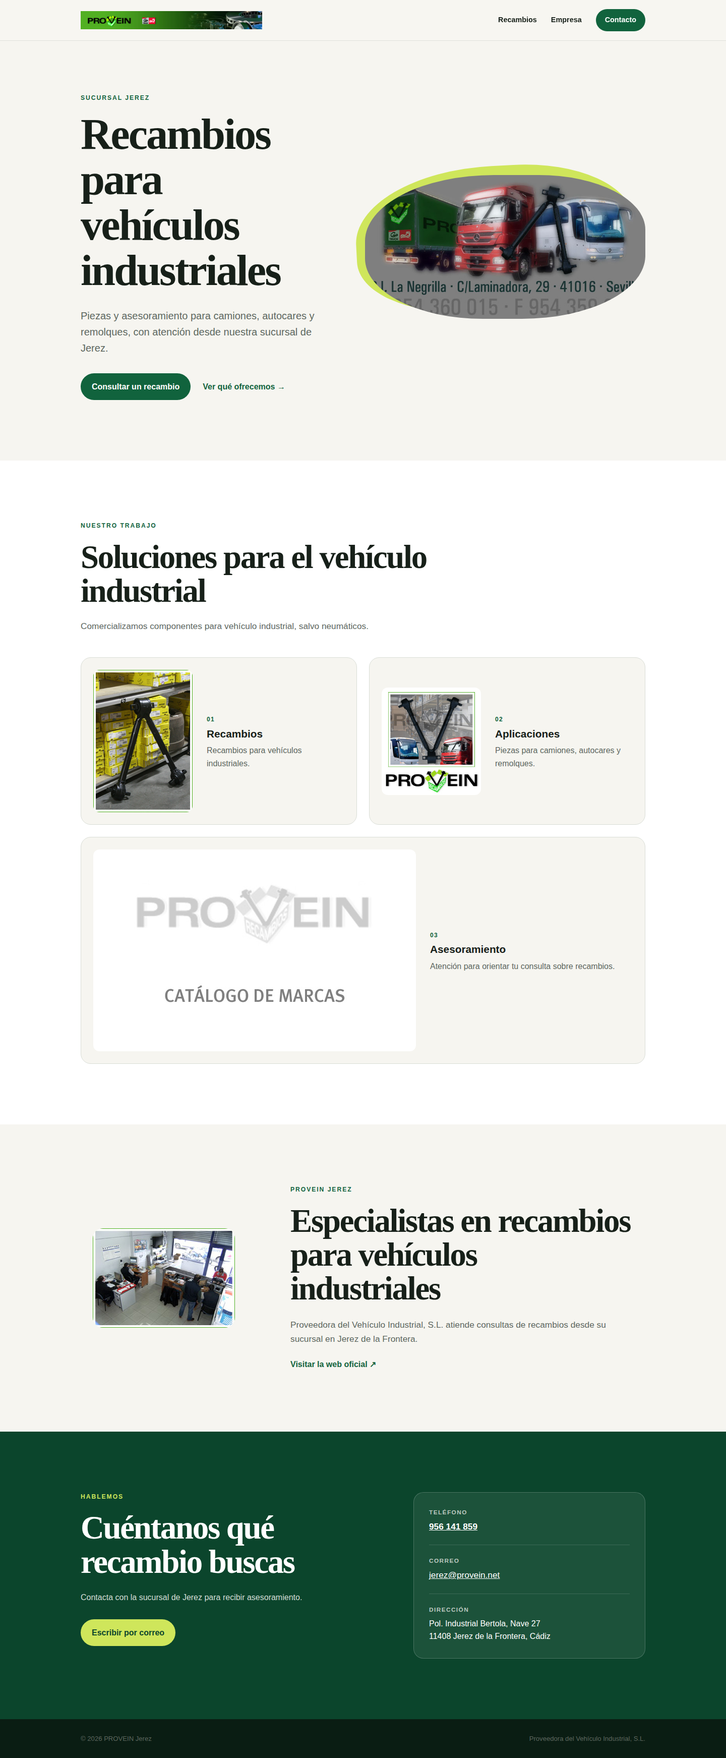
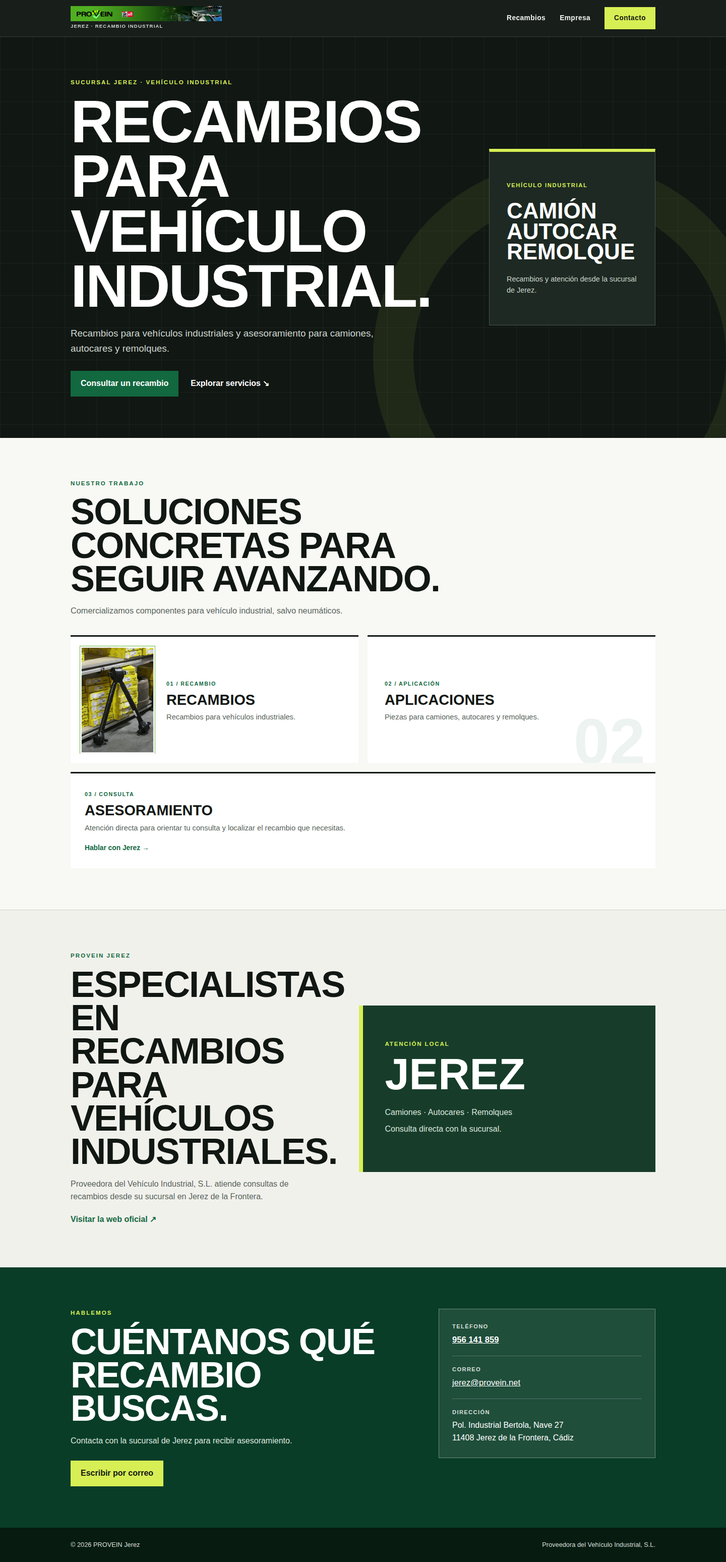
fix: cerrar diseño editorial sin activos débiles

diff --git a/styles.css b/styles.css
@@ -1,111 +1,166 @@
 :root {
-  --ink: #172019;
-  --muted: #5d675f;
-  --paper: #f6f5f0;
+  --ink: #111713;
+  --steel: #1b231e;
+  --muted: #59645d;
+  --paper: #f1f1ec;
   --white: #fff;
-  --green: #11633d;
-  --green-dark: #0b452c;
-  --lime: #cfe65b;
-  --line: #d9ddd6;
-  --shell: 1120px;
-  --radius: 20px;
+  --green: #12683f;
+  --green-dark: #093d28;
+  --signal: #d7ef54;
+  --line: #ccd2cb;
+  --shell: 1160px;
 }
 
 * { box-sizing: border-box; }
-html { scroll-behavior: smooth; }
-body { margin: 0; color: var(--ink); background: var(--paper); font-family: Manrope, sans-serif; line-height: 1.6; }
+html { overflow-x: clip; scroll-behavior: smooth; }
+body { margin: 0; overflow-x: clip; color: var(--ink); background: var(--paper); font-family: Manrope, Arial, sans-serif; line-height: 1.55; }
 a { color: inherit; }
 img { display: block; max-width: 100%; height: auto; }
 button, a { -webkit-tap-highlight-color: transparent; }
 .shell { width: min(calc(100% - 40px), var(--shell)); margin-inline: auto; }
-.section { padding: clamp(72px, 9vw, 120px) 0; }
-.skip-link { position: fixed; z-index: 99; top: 8px; left: 8px; padding: 10px 16px; background: var(--ink); color: white; transform: translateY(-150%); }
+.section { padding: clamp(54px, 6vw, 82px) 0; }
+.skip-link { position: fixed; z-index: 99; top: 8px; left: 8px; padding: 10px 16px; background: var(--signal); color: var(--ink); font-weight: 800; transform: translateY(-150%); }
 .skip-link:focus { transform: none; }
 
-.site-header { position: sticky; z-index: 20; top: 0; border-bottom: 1px solid rgba(23,32,25,.1); background: rgba(246,245,240,.94); backdrop-filter: blur(12px); }
-.header-inner { min-height: 80px; display: flex; align-items: center; justify-content: space-between; gap: 28px; }
-.brand { width: min(360px, 42vw); overflow: hidden; }
-.brand img { width: 100%; max-width: 1020px; }
-.main-nav { display: flex; align-items: center; gap: 28px; font-weight: 700; font-size: .9rem; }
+.site-header { position: sticky; z-index: 20; top: 0; border-bottom: 1px solid #323a35; background: rgba(17,23,19,.97); backdrop-filter: blur(12px); }
+.header-inner { min-height: 72px; display: flex; align-items: center; justify-content: space-between; gap: 28px; }
+.brand { width: min(340px, 42vw); overflow: visible; display:flex; flex-direction:column; align-items:flex-start; gap:3px; background: transparent; text-decoration:none; }
+.brand img { width: min(300px,100%); max-width: 510px; background:#fff; }
+.brand span{color:#cfd8d1;font-size:.6rem;font-weight:800;letter-spacing:.12em;text-transform:uppercase}
+.main-nav { display: flex; align-items: center; gap: 28px; color: #edf2ee; font-weight: 700; font-size: .86rem; letter-spacing: .03em; }
 .main-nav a { text-decoration: none; }
-.main-nav a:not(.nav-cta):hover { color: var(--green); }
-.nav-cta { padding: 10px 18px; border-radius: 999px; color: white; background: var(--green); }
-.menu-toggle { display: none; border: 1px solid var(--line); border-radius: 999px; padding: 9px 16px; color: var(--ink); background: transparent; font: 700 .9rem Manrope, sans-serif; }
+.main-nav a:not(.nav-cta):hover { color: var(--signal); }
+.nav-cta { padding: 10px 18px; border: 1px solid var(--signal); color: var(--ink); background: var(--signal); }
+.menu-toggle { display: none; border: 1px solid #79827c; padding: 9px 16px; color: white; background: transparent; font: 700 .9rem Manrope, sans-serif; }
 
-.hero { padding-top: clamp(64px, 8vw, 104px); overflow: hidden; }
-.hero-grid { display: grid; grid-template-columns: .92fr 1.08fr; align-items: center; gap: clamp(44px, 7vw, 90px); }
-.eyebrow { margin: 0 0 18px; color: var(--green); font-size: .76rem; font-weight: 800; letter-spacing: .16em; text-transform: uppercase; }
-h1, h2 { margin: 0; font-family: 'Source Serif 4', Georgia, serif; line-height: 1.04; letter-spacing: -.035em; }
-h1 { max-width: 700px; font-size: clamp(3rem, 6vw, 5.8rem); }
-h2 { font-size: clamp(2.3rem, 4.5vw, 4.3rem); }
-h3 { margin: 4px 0 8px; font-size: 1.3rem; line-height: 1.25; }
+.hero { position: relative; min-height: 610px; display: grid; align-items: center; overflow: hidden; color: #fff; background-color: var(--ink); background-image: linear-gradient(rgba(255,255,255,.045) 1px, transparent 1px), linear-gradient(90deg, rgba(255,255,255,.045) 1px, transparent 1px); background-size: 64px 64px; }
+.hero::after { content: ''; position: absolute; right: -80px; bottom: -230px; width: 620px; height: 620px; border: 80px solid rgba(215,239,84,.08); border-radius: 50%; pointer-events: none; }
+.hero-grid { position: relative; z-index: 1; display: grid; grid-template-columns: minmax(0, 1fr) 300px; align-items: end; gap: clamp(50px, 9vw, 130px); }
+.hero-copy, .hero-aside { min-width: 0; }
+.eyebrow { margin: 0 0 14px; color: var(--green); font-size: .72rem; font-weight: 800; letter-spacing: .18em; text-transform: uppercase; }
+.hero .eyebrow { color: var(--signal); }
+h1, h2 { margin: 0; font-family: 'Barlow Condensed', Impact, sans-serif; font-weight: 700; line-height: .92; letter-spacing: -.025em; text-transform: uppercase; }
+h1 { max-width: 830px; font-size: clamp(4.4rem, 8.2vw, 7.6rem); }
+h2 { font-size: clamp(2.7rem, 5vw, 4.8rem); }
+h3 { margin: 5px 0 8px; font-family: 'Barlow Condensed', Impact, sans-serif; font-size: 1.8rem; line-height: 1.05; text-transform: uppercase; }
 p { margin-top: 0; }
-.lead { max-width: 580px; margin: 28px 0 34px; color: var(--muted); font-size: clamp(1.05rem, 2vw, 1.25rem); }
+.lead { max-width: 640px; margin: 25px 0 30px; color: #ccd4ce; font-size: clamp(1rem, 1.8vw, 1.18rem); }
 .actions { display: flex; align-items: center; gap: 24px; flex-wrap: wrap; }
-.button { display: inline-block; border-radius: 999px; padding: 14px 22px; color: white; background: var(--green); font-weight: 800; text-decoration: none; }
+.button { display: inline-block; padding: 13px 20px; color: #fff; background: var(--green); font-weight: 800; text-decoration: none; }
 .button:hover { background: var(--green-dark); }
 .text-link { color: var(--green); font-weight: 800; text-decoration: none; }
+.hero .text-link { color: #fff; }
 .text-link:hover { text-decoration: underline; text-underline-offset: 4px; }
-.hero-media { position: relative; width: 100%; max-width: 720px; margin: 0; }
-.hero-media::before { content: ''; position: absolute; inset: -18px 22px 18px -18px; z-index: -1; border-radius: 50% 42% 48% 38%; background: var(--lime); transform: rotate(-3deg); }
-.hero-media img { width: 100%; max-width: 720px; border-radius: 46% 38% 44% 42%; aspect-ratio: 720 / 369; object-fit: cover; }
+.hero-aside { min-height: 300px; display: flex; flex-direction: column; justify-content: space-between; padding: 24px; border-top: 5px solid var(--signal); background: rgba(255,255,255,.07); }
+.industrial-mark { color: var(--signal); font: 800 4.5rem/1 'Barlow Condensed', Impact, sans-serif; letter-spacing: -.08em; }
+.hero-aside p { margin: 30px 0; color: #dde4df; font-size: .9rem; }
+.hero-aside strong { color: #fff; font: 700 1.65rem/1 'Barlow Condensed', Impact, sans-serif; text-transform: uppercase; }
+.hero-index { color: #aeb8b1; font-size: .68rem; font-weight: 800; letter-spacing: .15em; }
 
-.services { background: var(--white); }
-.section-heading { max-width: 760px; margin-bottom: 48px; }
-.section-heading > p:last-child { margin: 22px 0 0; color: var(--muted); font-size: 1.08rem; }
-.service-grid { display: grid; grid-template-columns: repeat(2, 1fr); gap: 24px; }
-.service-card { min-width: 0; display: grid; grid-template-columns: minmax(120px, 197px) 1fr; align-items: center; gap: 28px; padding: 24px; border: 1px solid var(--line); border-radius: var(--radius); background: var(--paper); }
-.service-card img { width: auto; max-width: 100%; max-height: 282px; border-radius: 12px; object-fit: contain; }
-.service-card p { margin: 0; color: var(--muted); }
-.service-card-wide { grid-column: 1 / -1; grid-template-columns: minmax(240px, 640px) 1fr; }
-.service-card-wide img { max-width: 640px; max-height: 400px; }
-.card-number { color: var(--green); font-size: .75rem; font-weight: 800; letter-spacing: .12em; }
+.services { background: #f8f8f4; }
+.section-heading { max-width: 810px; margin-bottom: 36px; }
+.section-heading > p:last-child { margin: 18px 0 0; color: var(--muted); font-size: 1.02rem; }
+.service-grid { display: grid; grid-template-columns: repeat(2, 1fr); gap: 18px; }
+.service-card { min-width: 0; display: grid; grid-template-columns: 150px 1fr; align-items: center; gap: 22px; padding: 18px; border-top: 3px solid var(--ink); background: var(--white); }
+.card-copy { min-width: 0; }
+.asset-frame { display: grid; place-items: center; overflow: hidden; background: #e7e8e2; }
+.asset-frame-portrait { width: 150px; height: 214px; }
+.asset-frame img { width: auto; height: auto; max-width: 100%; max-height: 100%; object-fit: contain; }
+.service-card p { margin: 0; color: var(--muted); font-size: .92rem; }
+.service-card-advice { grid-column: 1 / -1; grid-template-columns: minmax(280px, 480px) 1fr; }
+.asset-frame-catalogue { width: min(100%, 480px); min-height: 260px; }
+.asset-frame-catalogue img { max-width: 640px; }
+.service-card-advice .text-link { display: inline-block; margin-top: 18px; font-size: .86rem; }
+.card-number { color: var(--green); font-size: .67rem; font-weight: 800; letter-spacing: .14em; }
 
-.company-grid { display: grid; grid-template-columns: 282px minmax(0, 680px); align-items: center; justify-content: center; gap: clamp(40px, 8vw, 110px); }
-.company-grid > img { width: 282px; max-width: 282px; border-radius: var(--radius); }
-.company-grid p:not(.eyebrow) { margin: 24px 0; color: var(--muted); font-size: 1.08rem; }
+.company { border-top: 1px solid var(--line); }
+.company-grid { display: grid; grid-template-columns: minmax(0, .9fr) minmax(440px, 1.1fr); align-items: center; gap: clamp(40px, 7vw, 90px); }
+.company-copy, .visual-register { min-width: 0; }
+.company-copy p:not(.eyebrow) { max-width: 590px; margin: 20px 0; color: var(--muted); font-size: 1rem; }
+.visual-register { display: grid; grid-template-columns: 1fr 160px; align-items: end; gap: 14px; }
+.visual-register figure { min-width: 0; margin: 0; }
+.visual-register img { width: auto; max-width: 100%; max-height: 246px; object-fit: contain; object-position: left bottom; }
+.register-wide img { width: min(100%, 480px); max-width: 720px; }
+.visual-register figure:not(.register-wide) img { width: min(100%, 282px); max-width: 282px; }
+.visual-register figcaption { padding-top: 8px; border-top: 1px solid #aeb5af; color: var(--muted); font-size: .62rem; font-weight: 800; letter-spacing: .09em; text-transform: uppercase; }
 
-.contact { color: white; background: var(--green-dark); }
-.contact .eyebrow { color: var(--lime); }
-.contact-grid { display: grid; grid-template-columns: 1fr minmax(320px, 460px); align-items: start; gap: clamp(48px, 9vw, 120px); }
+.contact { color: #fff; background: var(--green-dark); }
+.contact .eyebrow { color: var(--signal); }
+.contact-grid { display: grid; grid-template-columns: 1fr minmax(320px, 430px); align-items: start; gap: clamp(44px, 8vw, 100px); }
 .contact h2 { max-width: 650px; }
-.contact h2 + p { margin: 24px 0 30px; color: #d4ded7; }
-.button-light { color: var(--green-dark); background: var(--lime); }
-.button-light:hover { color: white; background: var(--green); }
-.contact-card { padding: 30px; border: 1px solid rgba(255,255,255,.2); border-radius: var(--radius); background: rgba(255,255,255,.07); font-style: normal; }
-.contact-card div + div { margin-top: 22px; padding-top: 22px; border-top: 1px solid rgba(255,255,255,.14); }
-.contact-card span { display: block; margin-bottom: 5px; color: #bdc9c0; font-size: .74rem; font-weight: 800; letter-spacing: .12em; text-transform: uppercase; }
-.contact-card strong, .contact-card a { font-size: 1.08rem; }
-.contact-card p { margin: 0; }
-.site-footer { padding: 28px 0; color: var(--muted); background: #0a1d13; }
+.contact h2 + p { margin: 20px 0 26px; color: #dce7df; }
+.button-light { color: #111713; background: var(--signal); }
+.button-light:hover { color: #fff; background: #12683f; }
+.contact-card { padding: 26px; border: 1px solid rgba(255,255,255,.35); background: rgba(255,255,255,.09); font-style: normal; }
+.contact-card div + div { margin-top: 18px; padding-top: 18px; border-top: 1px solid rgba(255,255,255,.22); }
+.contact-card span { display: block; margin-bottom: 5px; color: #d4dfd7; font-size: .7rem; font-weight: 800; letter-spacing: .12em; text-transform: uppercase; }
+.contact-card strong, .contact-card a { color: #fff; font-size: 1.04rem; }
+.contact-card p { margin: 0; color: #fff; }
+.site-footer { padding: 24px 0; color: #d6dfd8; background: #071b11; }
 .footer-inner { display: flex; justify-content: space-between; gap: 20px; }
-.footer-inner p { margin: 0; font-size: .82rem; }
+.footer-inner p { margin: 0; font-size: .8rem; }
 
 @media (max-width: 820px) {
   .menu-toggle { display: block; }
-  .main-nav { position: absolute; top: calc(100% + 1px); right: 20px; left: 20px; display: none; flex-direction: column; align-items: stretch; gap: 0; padding: 12px; border: 1px solid var(--line); border-radius: 16px; background: var(--white); box-shadow: 0 18px 40px rgba(23,32,25,.12); }
+  .main-nav { position: absolute; top: calc(100% + 1px); right: 20px; left: 20px; display: none; flex-direction: column; align-items: stretch; gap: 0; padding: 12px; border: 1px solid #3e4841; background: var(--ink); box-shadow: 0 18px 40px rgba(0,0,0,.3); }
   .main-nav.is-open { display: flex; }
   .main-nav a { padding: 12px; }
   .nav-cta { margin-top: 5px; text-align: center; }
   .brand { width: min(320px, 65vw); }
-  .hero-grid, .contact-grid { grid-template-columns: 1fr; }
-  .hero-media { margin-inline: auto; }
+  .hero { min-height: auto; }
+  .hero-grid { grid-template-columns: 1fr; align-items: start; gap: 38px; }
+  .hero-aside { min-height: 0; display: grid; grid-template-columns: auto 1fr auto; align-items: center; gap: 24px; }
+  .hero-aside p { margin: 0; }
+  .industrial-mark { font-size: 3.4rem; }
   .service-grid { grid-template-columns: 1fr; }
-  .service-card-wide { grid-column: auto; grid-template-columns: minmax(120px, 197px) 1fr; }
-  .service-card-wide img { max-width: 197px; max-height: 282px; }
+  .service-card-advice { grid-column: auto; grid-template-columns: 220px 1fr; }
+  .asset-frame-catalogue { min-height: 0; }
+  .company-grid, .contact-grid { grid-template-columns: 1fr; }
+  .visual-register { max-width: 640px; }
 }
 
 @media (max-width: 580px) {
   .shell { width: min(calc(100% - 28px), var(--shell)); }
-  .header-inner { min-height: 68px; }
-  .section { padding: 68px 0; }
-  .hero { padding-top: 52px; }
-  .service-card, .service-card-wide { grid-template-columns: 1fr; }
-  .service-card img, .service-card-wide img { width: auto; max-width: 100%; margin-inline: auto; }
-  .company-grid { grid-template-columns: 1fr; }
-  .company-grid > img { margin-inline: auto; }
-  .contact-card { padding: 22px; }
-  .footer-inner { flex-direction: column; }
+  .header-inner { min-height: 64px; }
+  .section { padding: 48px 0; }
+  .hero { padding-top: 50px; }
+  h1 { overflow-wrap: anywhere; font-size: clamp(3.5rem, 17vw, 5.2rem); }
+  h2 { overflow-wrap: anywhere; font-size: clamp(2.45rem, 11vw, 3.2rem); }
+  h3 { font-size: 1.4rem; }
+  .hero-aside { grid-template-columns: auto 1fr; padding: 18px; }
+  .hero-index { display: none; }
+  .service-card, .service-card-advice { grid-template-columns: 116px 1fr; gap: 16px; padding: 14px; }
+  .asset-frame-portrait { width: 116px; height: 166px; }
+  .asset-frame-catalogue { width: 116px; min-height: 0; }
+  .service-card-advice .asset-frame img { width: 116px; }
+  .visual-register { grid-template-columns: minmax(0, 1fr) 96px; gap: 10px; }
+  .contact-card { padding: 20px; }
+  .footer-inner { flex-direction: column; gap: 5px; }
 }
 
 @media (prefers-reduced-motion: reduce) { html { scroll-behavior: auto; } }
+
+/* Ajuste comercial final: activos siempre contenidos a escala nativa */
+.hero-grid{grid-template-columns:minmax(0,1fr) 330px;align-items:center}
+.hero-aside{min-height:350px;justify-content:center;gap:22px;padding:34px;border:1px solid rgba(255,255,255,.2);border-top:6px solid var(--signal);background:#1d2922}
+.hero-aside .aside-label{color:var(--signal);font-size:.7rem;font-weight:800;letter-spacing:.15em;text-transform:uppercase}
+.hero-aside>strong{color:#fff;font:700 2.75rem/.92 'Barlow Condensed',Impact,sans-serif;text-transform:uppercase;overflow-wrap:anywhere}
+.hero-aside>p{margin:0;color:#cbd4cd;font-size:.9rem}
+.service-card-advice{grid-template-columns:240px 1fr;min-height:0}
+.asset-frame-catalogue{width:240px;min-height:150px;height:150px}
+.asset-frame-catalogue img{width:240px;max-width:240px;height:150px;max-height:150px;object-fit:contain}
+.visual-register{grid-template-columns:360px 180px;justify-content:end}
+.register-wide img{width:360px;max-width:360px}
+.visual-register figure:not(.register-wide) img{width:180px;max-width:180px}
+.service-card-advice{grid-template-columns:1fr;padding:28px}
+.service-card-text{grid-template-columns:1fr;position:relative;overflow:hidden;padding:34px}
+.service-card-text::after{content:"02";position:absolute;right:20px;bottom:-22px;color:#12683f14;font:800 8rem/1 'Barlow Condensed',Impact,sans-serif}
+.service-card-text .card-copy{position:relative;z-index:1;max-width:320px}
+.catalog-note{grid-column:1/-1;width:180px}
+.catalog-note img{width:180px!important;max-width:180px!important;height:112px;object-fit:contain}
+.company-panel{min-height:330px;display:flex;flex-direction:column;justify-content:center;padding:44px;background:#173d2a;color:#fff;border-left:8px solid var(--signal)}
+.company-panel span{color:var(--signal);font-size:.72rem;font-weight:800;letter-spacing:.16em;text-transform:uppercase}
+.company-panel strong{margin:14px 0 22px;font:700 5.4rem/.85 'Barlow Condensed',Impact,sans-serif;text-transform:uppercase}
+.company-panel p{margin:4px 0;color:#dbe5de}
+@media(max-width:820px){.hero-grid{grid-template-columns:1fr}.hero-aside{min-height:0;display:grid;grid-template-columns:1fr 1fr;align-items:end}.hero-aside>p{grid-column:1/-1}.visual-register{justify-content:start}}
+@media(max-width:580px){.brand{width:210px}.brand img{width:210px;max-width:210px;object-fit:contain}.company h2{font-size:2.15rem;overflow-wrap:normal}h1{overflow-wrap:normal;font-size:3.1rem;line-height:.95}.hero-aside{grid-template-columns:1fr;padding:24px}.hero-aside>strong{font-size:2.55rem}.hero-aside>p{grid-column:auto}.service-card{grid-template-columns:96px 1fr}.asset-frame-portrait{width:88px;height:126px}.service-card-advice{grid-template-columns:1fr}.visual-register{grid-template-columns:180px 80px}.register-wide img{width:180px;max-width:180px}.visual-register figure:not(.register-wide) img{width:80px;max-width:80px}.catalog-note{grid-column:1/-1;width:160px}.catalog-note img{width:160px!important;max-width:160px!important;height:100px}}

diff --git a/index.html b/index.html
@@ -14,7 +14,8 @@
   <header class="site-header">
     <div class="shell header-inner">
       <a class="brand" href="#inicio" aria-label="PROVEIN Jerez, inicio">
-        <img src="public/assets/logo-header.jpg" width="1020" height="102" alt="PROVEIN, Proveedora del Vehículo Industrial">
+        <img src="public/assets/logo-header.jpg" width="510" height="51" alt="PROVEIN, Proveedora del Vehículo Industrial">
+        <span>Jerez · Recambio industrial</span>
       </a>
       <button class="menu-toggle" type="button" aria-expanded="false" aria-controls="nav">Menú</button>
       <nav id="nav" class="main-nav" aria-label="Navegación principal" data-open="false">
@@ -29,17 +30,19 @@
     <section id="inicio" class="hero section">
       <div class="shell hero-grid">
         <div class="hero-copy">
-          <p class="eyebrow">Sucursal Jerez</p>
-          <h1>Recambios para vehículos industriales</h1>
-          <p class="lead">Piezas y asesoramiento para camiones, autocares y remolques, con atención desde nuestra sucursal de Jerez.</p>
+          <p class="eyebrow">Sucursal Jerez · Vehículo industrial</p>
+          <h1>Recambios para vehículo industrial.</h1>
+          <p class="lead">Recambios para vehículos industriales y asesoramiento para camiones, autocares y remolques.</p>
           <div class="actions">
             <a class="button" href="#contacto">Consultar un recambio</a>
-            <a class="text-link" href="#servicios">Ver qué ofrecemos <span aria-hidden="true">→</span></a>
+            <a class="text-link" href="#servicios">Explorar servicios <span aria-hidden="true">↘</span></a>
           </div>
         </div>
-        <figure class="hero-media">
-          <img src="public/assets/hero-camion.jpg" width="720" height="369" alt="Camión circulando por carretera">
-        </figure>
+        <aside class="hero-aside" aria-label="Especialidad de PROVEIN">
+          <span class="aside-label">Vehículo industrial</span>
+          <strong>Camión<br>Autocar<br>Remolque</strong>
+          <p>Recambios y atención desde la sucursal de Jerez.</p>
+        </aside>
       </div>
     </section>
 
@@ -47,21 +50,21 @@
       <div class="shell">
         <div class="section-heading">
           <p class="eyebrow">Nuestro trabajo</p>
-          <h2 id="servicios-title">Soluciones para el vehículo industrial</h2>
+          <h2 id="servicios-title">Soluciones concretas para seguir avanzando.</h2>
           <p>Comercializamos componentes para vehículo industrial, salvo neumáticos.</p>
         </div>
         <div class="service-grid">
           <article class="service-card">
-            <img src="public/assets/apoyo-recambios.jpg" width="197" height="282" alt="Detalle de componentes para vehículos industriales" loading="lazy">
-            <div><span class="card-number">01</span><h3>Recambios</h3><p>Recambios para vehículos industriales.</p></div>
+            <div class="asset-frame asset-frame-portrait">
+              <img src="public/assets/apoyo-recambios.jpg" width="197" height="282" alt="Detalle de componentes para vehículos industriales" loading="lazy">
+            </div>
+            <div class="card-copy"><span class="card-number">01 / RECAMBIO</span><h3>Recambios</h3><p>Recambios para vehículos industriales.</p></div>
           </article>
-          <article class="service-card">
-            <img src="public/assets/apoyo-servicio.jpg" width="261" height="283" alt="Profesional atendiendo una consulta de recambios" loading="lazy">
-            <div><span class="card-number">02</span><h3>Aplicaciones</h3><p>Piezas para camiones, autocares y remolques.</p></div>
+          <article class="service-card service-card-text">
+            <div class="card-copy"><span class="card-number">02 / APLICACIÓN</span><h3>Aplicaciones</h3><p>Piezas para camiones, autocares y remolques.</p></div>
           </article>
-          <article class="service-card service-card-wide">
-            <img src="public/assets/apoyo-catalogo.jpg" width="640" height="400" alt="Selección de piezas de un catálogo de recambios" loading="lazy">
-            <div><span class="card-number">03</span><h3>Asesoramiento</h3><p>Atención para orientar tu consulta sobre recambios.</p></div>
+          <article class="service-card service-card-advice">
+            <div class="card-copy"><span class="card-number">03 / CONSULTA</span><h3>Asesoramiento</h3><p>Atención directa para orientar tu consulta y localizar el recambio que necesitas.</p><a class="text-link" href="#contacto">Hablar con Jerez <span aria-hidden="true">→</span></a></div>
           </article>
         </div>
       </div>
@@ -69,12 +72,17 @@
 
     <section id="empresa" class="section company" aria-labelledby="empresa-title">
       <div class="shell company-grid">
-        <img src="public/assets/apoyo-empresa.jpg" width="282" height="197" alt="Instalaciones de PROVEIN" loading="lazy">
-        <div>
+        <div class="company-copy">
           <p class="eyebrow">PROVEIN Jerez</p>
-          <h2 id="empresa-title">Especialistas en recambios para vehículos industriales</h2>
+          <h2 id="empresa-title">Especialistas en recambios para vehículos industriales.</h2>
           <p>Proveedora del Vehículo Industrial, S.L. atiende consultas de recambios desde su sucursal en Jerez de la Frontera.</p>
           <a class="text-link" href="https://www.provein.net/">Visitar la web oficial <span aria-hidden="true">↗</span></a>
+        </div>
+        <div class="company-panel" aria-label="Ámbito de atención">
+          <span>Atención local</span>
+          <strong>Jerez</strong>
+          <p>Camiones · Autocares · Remolques</p>
+          <p>Consulta directa con la sucursal.</p>
         </div>
       </div>
     </section>
@@ -83,12 +91,12 @@
       <div class="shell contact-grid">
         <div>
           <p class="eyebrow">Hablemos</p>
-          <h2 id="contacto-title">Cuéntanos qué recambio buscas</h2>
+          <h2 id="contacto-title">Cuéntanos qué recambio buscas.</h2>
           <p>Contacta con la sucursal de Jerez para recibir asesoramiento.</p>
           <a class="button button-light" href="mailto:jerez@provein.net">Escribir por correo</a>
         </div>
         <address class="contact-card">
-          <div><span>Teléfono</span><a href="tel:+34956141859"><strong>956 141 859</strong></a></div>
+          <div><span>Teléfono</span><a href="tel:&#43;34956141859"><strong>956 141 859</strong></a></div>
           <div><span>Correo</span><a href="mailto:jerez@provein.net">jerez@provein.net</a></div>
           <div><span>Dirección</span><p>Pol. Industrial Bertola, Nave 27<br>11408 Jerez de la Frontera, Cádiz</p></div>
         </address>

diff --git a/tests/test_site.py b/tests/test_site.py
@@ -69,14 +69,16 @@ class ProveinSiteTests(unittest.TestCase):
         self.assertNotIn("<video", self.html.lower())
         self.assertNotIn("<iframe", self.html.lower())
 
-    def test_all_six_approved_images_are_used_and_present(self):
+    def test_all_six_approved_images_are_present_and_visible_images_are_approved(self):
         declared = self.sources["images"]
         self.assertEqual(6, len(declared))
+        declared_paths = {image["file"] for image in declared}
         used = {image.get("src") for image in self.parser.images}
         for image in declared:
             relative = image["file"]
-            self.assertIn(relative, used)
             self.assertTrue((ROOT / relative).is_file(), relative)
+        self.assertTrue(used.issubset(declared_paths))
+        self.assertGreaterEqual(len(used), 2)
 
     def test_asset_hashes_match_manifest(self):
         for image in self.sources["images"]:
